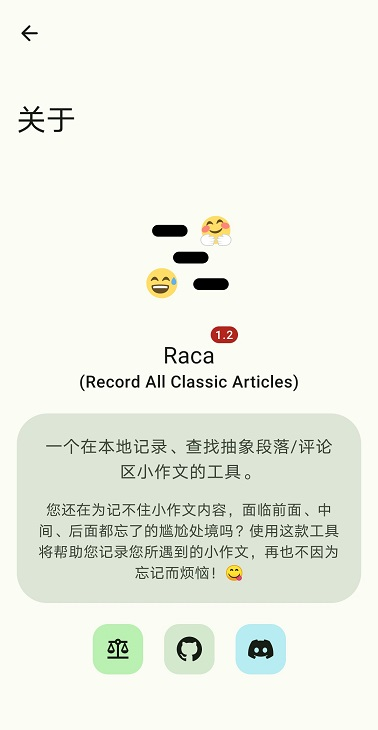
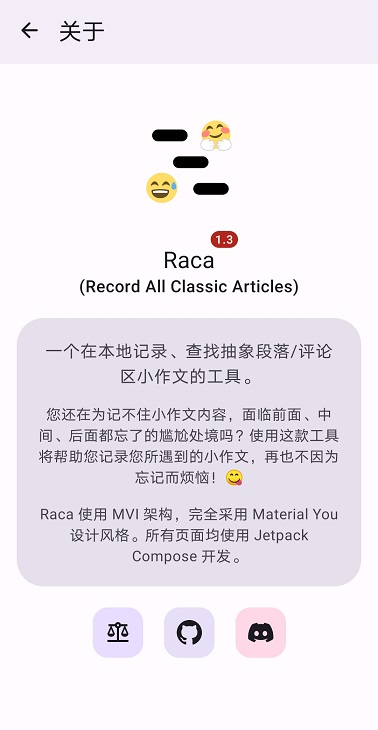
[doc]更新README

diff --git a/README.md b/README.md
@@ -2,7 +2,7 @@
     <div>
         <img src="image/Raca.svg" style="height: 210px"/>
     </div>
-    <h1>😅 Raca (Android)</h1>
+    <h1>🤗 Raca (Android)</h1>
     <p>
         <a href="https://github.com/SkyD666/Raca-Android/releases/latest" style="text-decoration:none">
             <img src="https://img.shields.io/github/v/release/SkyD666/Raca-Android?display_name=release&style=for-the-badge" alt="GitHub release (latest by date)"/>
@@ -24,10 +24,10 @@
         <b>Raca (Record All Classic Articles)</b>，一个在本地<b>记录、查找抽象段落/评论区小作文</b>的工具。
     </p>
     <p>
-        您还在为记不住小作文内容，面临<b>前面、中间、后面都忘了</b>的尴尬处境吗？使用这款工具将<b>帮助您记录您所遇到的小作文</b>，再也不因为忘记而烦恼！😋
+        🤗您还在为记不住小作文内容，面临<b>前面、中间、后面都忘了</b>的尴尬处境吗？使用这款工具将<b>帮助您记录您所遇到的小作文</b>，再也不因为忘记而烦恼！😋
     </p>
     <p>
-        使用<b> <a href="https://developer.android.com/topic/architecture#recommended-app-arch">MVI</a> </b>架构，完全采用<b> Material You </b>设计风格。<b>所有页面均使用 Jetpack Compose </b>开发。
+        使用<b> <a href="https://developer.android.com/topic/architecture#recommended-app-arch">MVI</a> </b>架构，完全采用<b> <a href="https://m3.material.io/">Material You</a> </b>设计风格。<b>所有页面均使用 <a href="https://developer.android.com/jetpack/compose">Jetpack Compose</a> </b>开发。
     </p>
     <p>
         <a href="https://github.com/SkyD666/Raca" style="text-decoration:none" >
@@ -35,6 +35,7 @@
         </a>
     </p>
 </div>
+
 
 ## 💡主要功能
 
@@ -45,8 +46,10 @@
 5. 支持**使用 WebDAV 同步**数据
 6. 支持根据关键词**自动填充**输入框
 7. 支持通过选中段落后的**上下文菜单快捷添加段落**
-8. 支持**深色模式**
-9. ......
+8. 支持转换为**抽象 Emoji 段落**
+9. 支持**更换和自定义主题色**
+10. 支持**深色模式**
+11. ......
 
 ## 🤩应用截图
 ![ic_main_screen](image/ic_main_screen.jpg) ![ic_main_screen_search](image/ic_main_screen_search.jpg)
@@ -54,7 +57,7 @@
 ![ic_process_text_menu](image/ic_process_text_menu.jpg) ![ic_auto_fill_menu](image/ic_auto_fill_menu.jpg)
 ![ic_import_export_screen](image/ic_import_export_screen.jpg) ![ic_easy_usage_screen](image/ic_easy_usage_screen.jpg)
 ![ic_appearance_screen](image/ic_appearance_screen.jpg) ![ic_webdav_screen](image/ic_webdav_screen.jpg)
-![ic_more_screen](image/ic_more_screen.jpg) ![ic_about_screen](image/ic_about_screen.jpg)
+![ic_abstract_emoji_screen](image/ic_abstract_emoji_screen.jpg) ![ic_about_screen](image/ic_about_screen.jpg)
 
 ## 🔍搜索示例
 
